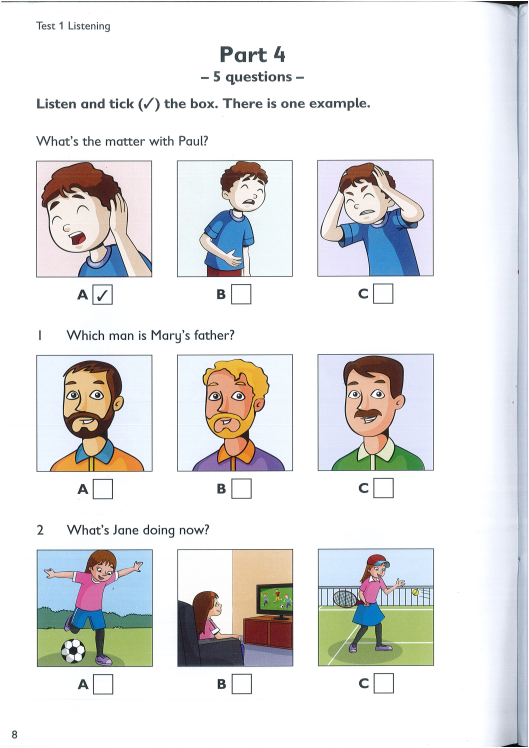
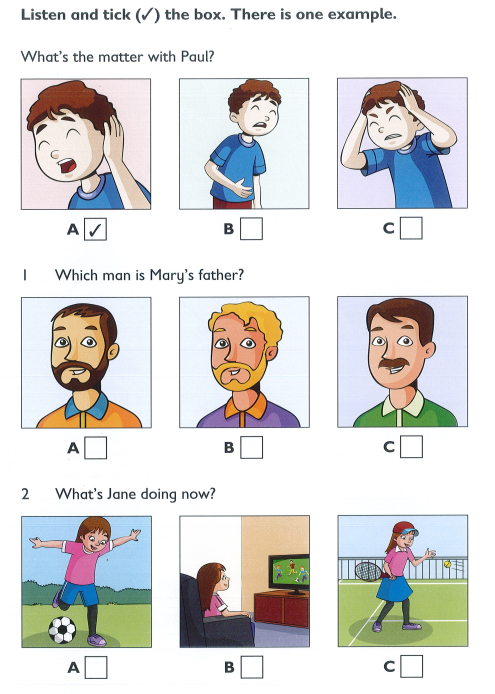
Update Part 4 and 5 images, enlarge result card 1.5x
- Part 4: Replace both page images with clearer versions
- Part 5: Replace beach image with new version
- Result card: Scale up from 680px to 1020px max-width
- Increase all result card font sizes, padding, SVG ring (120→180px)
- Larger buttons and shield display

Claude-Session: https://claude.ai/code/session_01J8NujCZJLpRiduYAkdeME4

diff --git a/index.html b/index.html
@@ -742,56 +742,56 @@
                 const pp = Math.round(((ps.correct ?? ps.score) / ps.total) * 100);
                 const c = pp >= 80 ? '#22c55e' : pp >= 50 ? '#f59e0b' : '#ef4444';
                 return `<tr style="border-bottom:1px solid #f1f5f9">
-                    <td style="padding:10px 14px;font-weight:600;color:#334155">${ps.title}</td>
-                    <td style="padding:10px 14px;text-align:center;font-weight:700;color:#1e293b">${ps.correct ?? ps.score} / ${ps.total}</td>
-                    <td style="padding:10px 14px;text-align:center"><span style="background:${c};color:white;padding:3px 12px;border-radius:20px;font-weight:700;font-size:13px">${pp}%</span></td>
+                    <td style="padding:14px 20px;font-weight:600;color:#334155;font-size:18px">${ps.title}</td>
+                    <td style="padding:14px 20px;text-align:center;font-weight:700;color:#1e293b;font-size:18px">${ps.correct ?? ps.score} / ${ps.total}</td>
+                    <td style="padding:14px 20px;text-align:center"><span style="background:${c};color:white;padding:5px 16px;border-radius:20px;font-weight:700;font-size:16px">${pp}%</span></td>
                 </tr>`;
             }).join('');
 
             return `
-            <div id="result-card" style="font-family:Inter,sans-serif;text-align:left;max-width:680px;margin:0 auto;aspect-ratio:4/3;display:flex;flex-direction:column;justify-content:space-between">
-                <div style="background:linear-gradient(135deg, ${matColor}, ${matColor}dd);border-radius:16px;padding:16px 20px;text-align:center;color:white;position:relative;overflow:hidden">
-                    <div style="position:absolute;top:-20px;right:-20px;width:100px;height:100px;background:rgba(255,255,255,0.1);border-radius:50%"></div>
-                    <div style="position:absolute;bottom:-30px;left:-10px;width:80px;height:80px;background:rgba(255,255,255,0.08);border-radius:50%"></div>
-                    <div style="font-size:11px;text-transform:uppercase;letter-spacing:2px;opacity:0.9;margin-bottom:4px;font-weight:700">${matName}</div>
-                    <div style="font-size:18px;font-weight:800;margin-bottom:2px">${testTitle}</div>
-                    <div style="font-size:12px;opacity:0.85;font-weight:500"><i class="fa-solid fa-${skillLabel === 'Listening' ? 'headphones' : skillLabel === 'Reading' ? 'book-open' : 'clipboard-list'}" style="margin-right:4px"></i>${skillLabel}</div>
+            <div id="result-card" style="font-family:Inter,sans-serif;text-align:left;max-width:1020px;margin:0 auto;aspect-ratio:4/3;display:flex;flex-direction:column;justify-content:space-between;padding:10px">
+                <div style="background:linear-gradient(135deg, ${matColor}, ${matColor}dd);border-radius:20px;padding:24px 30px;text-align:center;color:white;position:relative;overflow:hidden">
+                    <div style="position:absolute;top:-30px;right:-30px;width:150px;height:150px;background:rgba(255,255,255,0.1);border-radius:50%"></div>
+                    <div style="position:absolute;bottom:-40px;left:-15px;width:120px;height:120px;background:rgba(255,255,255,0.08);border-radius:50%"></div>
+                    <div style="font-size:16px;text-transform:uppercase;letter-spacing:3px;opacity:0.9;margin-bottom:6px;font-weight:700">${matName}</div>
+                    <div style="font-size:26px;font-weight:800;margin-bottom:4px">${testTitle}</div>
+                    <div style="font-size:16px;opacity:0.85;font-weight:500"><i class="fa-solid fa-${skillLabel === 'Listening' ? 'headphones' : skillLabel === 'Reading' ? 'book-open' : 'clipboard-list'}" style="margin-right:6px"></i>${skillLabel}</div>
                 </div>
-                <div style="text-align:center;margin:10px 0 6px">
-                    <div style="font-size:17px;font-weight:800;color:#1e293b">${studentName}${studentEng}</div>
-                    <div style="font-size:12px;color:#64748b;margin-top:2px">
-                        ${studentClass ? `<i class="fa-solid fa-school" style="margin-right:3px"></i>${studentClass} &nbsp;|&nbsp;` : ''}
-                        <i class="fa-solid fa-clock" style="margin-right:3px"></i>${timeStr}
+                <div style="text-align:center;margin:14px 0 10px">
+                    <div style="font-size:24px;font-weight:800;color:#1e293b">${studentName}${studentEng}</div>
+                    <div style="font-size:16px;color:#64748b;margin-top:4px">
+                        ${studentClass ? `<i class="fa-solid fa-school" style="margin-right:4px"></i>${studentClass} &nbsp;|&nbsp;` : ''}
+                        <i class="fa-solid fa-clock" style="margin-right:4px"></i>${timeStr}
                     </div>
                 </div>
-                <div style="display:flex;gap:20px;align-items:center;flex:1;min-height:0">
-                    <div style="flex:0 0 auto;text-align:center;display:flex;flex-direction:column;align-items:center;justify-content:center;padding:0 10px">
-                        <svg width="120" height="120" viewBox="0 0 130 130" style="display:inline-block">
+                <div style="display:flex;gap:30px;align-items:center;flex:1;min-height:0">
+                    <div style="flex:0 0 auto;text-align:center;display:flex;flex-direction:column;align-items:center;justify-content:center;padding:0 16px">
+                        <svg width="180" height="180" viewBox="0 0 130 130" style="display:inline-block">
                             <circle cx="65" cy="65" r="54" fill="none" stroke="#e2e8f0" stroke-width="10"/>
                             <circle cx="65" cy="65" r="54" fill="none" stroke="${totalColor}" stroke-width="10" stroke-linecap="round" stroke-dasharray="${circumference}" stroke-dashoffset="${offset}" transform="rotate(-90 65 65)" style="transition:stroke-dashoffset 1s ease"/>
                             <text x="65" y="58" text-anchor="middle" style="font-size:32px;font-weight:800;fill:${totalColor}">${pct}%</text>
                             <text x="65" y="78" text-anchor="middle" style="font-size:13px;font-weight:600;fill:#64748b">${totalScore}/${totalMax}</text>
                         </svg>
-                        <div style="font-size:22px;margin-top:2px">${emoji}</div>
-                        ${shields !== null && shields !== undefined ? `<div style="text-align:center;margin-top:8px;padding:10px 14px;background:linear-gradient(135deg,#fffbeb,#fef3c7);border-radius:12px;border:1px solid #fde68a">
-                            <div style="margin-bottom:4px">${renderShieldIcons(shields)}</div>
-                            <div style="font-size:16px;font-weight:800;color:#b45309">${shields}/5 khiên</div>
+                        <div style="font-size:32px;margin-top:4px">${emoji}</div>
+                        ${shields !== null && shields !== undefined ? `<div style="text-align:center;margin-top:12px;padding:14px 20px;background:linear-gradient(135deg,#fffbeb,#fef3c7);border-radius:14px;border:1px solid #fde68a">
+                            <div style="margin-bottom:6px">${renderShieldIcons(shields)}</div>
+                            <div style="font-size:22px;font-weight:800;color:#b45309">${shields}/5 khiên</div>
                         </div>` : ''}
                     </div>
                     <div style="flex:1;min-width:0;overflow:auto">
-                        <table style="width:100%;border-collapse:collapse;border-radius:12px;overflow:hidden;border:1px solid #e2e8f0">
+                        <table style="width:100%;border-collapse:collapse;border-radius:14px;overflow:hidden;border:1px solid #e2e8f0">
                             <thead><tr style="background:linear-gradient(135deg,#f8fafc,#f1f5f9)">
-                                <th style="padding:8px 12px;text-align:left;color:#475569;font-size:11px;text-transform:uppercase;letter-spacing:1px;font-weight:700">Phần</th>
-                                <th style="padding:8px 12px;text-align:center;color:#475569;font-size:11px;text-transform:uppercase;letter-spacing:1px;font-weight:700">Điểm</th>
-                                <th style="padding:8px 12px;text-align:center;color:#475569;font-size:11px;text-transform:uppercase;letter-spacing:1px;font-weight:700">%</th>
+                                <th style="padding:12px 18px;text-align:left;color:#475569;font-size:14px;text-transform:uppercase;letter-spacing:1px;font-weight:700">Phần</th>
+                                <th style="padding:12px 18px;text-align:center;color:#475569;font-size:14px;text-transform:uppercase;letter-spacing:1px;font-weight:700">Điểm</th>
+                                <th style="padding:12px 18px;text-align:center;color:#475569;font-size:14px;text-transform:uppercase;letter-spacing:1px;font-weight:700">%</th>
                             </tr></thead>
-                            <tbody style="font-size:14px">${partRows}</tbody>
+                            <tbody>${partRows}</tbody>
                         </table>
                     </div>
                 </div>
-                <div style="display:flex;gap:8px;justify-content:center;margin-top:12px">
-                    <button id="${reviewBtnId}" style="padding:10px 20px;background:linear-gradient(135deg,${matColor},${matColor}cc);color:white;border:none;border-radius:12px;font-weight:700;cursor:pointer;font-size:14px;box-shadow:0 4px 12px ${matColor}40"><i class="fa-solid fa-eye" style="margin-right:6px"></i>Xem lại bài làm</button>
-                    <button id="${saveBtnId}" style="padding:10px 20px;background:linear-gradient(135deg,#6366f1,#818cf8);color:white;border:none;border-radius:12px;font-weight:700;cursor:pointer;font-size:14px;box-shadow:0 4px 12px rgba(99,102,241,0.3)"><i class="fa-solid fa-download" style="margin-right:6px"></i>Lưu kết quả</button>
+                <div style="display:flex;gap:12px;justify-content:center;margin-top:16px">
+                    <button id="${reviewBtnId}" style="padding:14px 28px;background:linear-gradient(135deg,${matColor},${matColor}cc);color:white;border:none;border-radius:14px;font-weight:700;cursor:pointer;font-size:18px;box-shadow:0 4px 12px ${matColor}40"><i class="fa-solid fa-eye" style="margin-right:8px"></i>Xem lại bài làm</button>
+                    <button id="${saveBtnId}" style="padding:14px 28px;background:linear-gradient(135deg,#6366f1,#818cf8);color:white;border:none;border-radius:14px;font-weight:700;cursor:pointer;font-size:18px;box-shadow:0 4px 12px rgba(99,102,241,0.3)"><i class="fa-solid fa-download" style="margin-right:8px"></i>Lưu kết quả</button>
                 </div>
             </div>`;
         }
